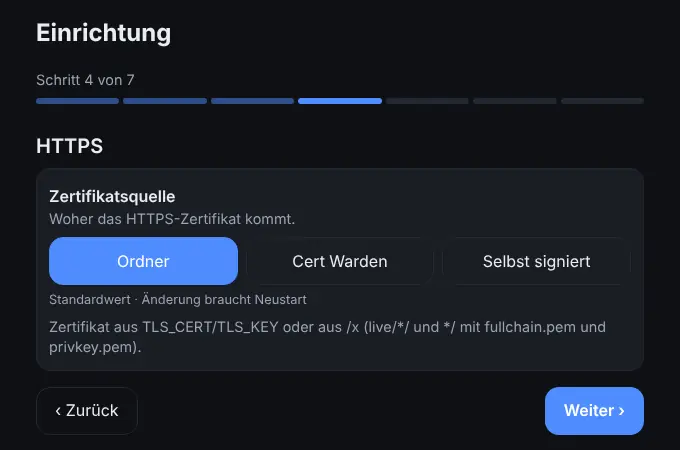
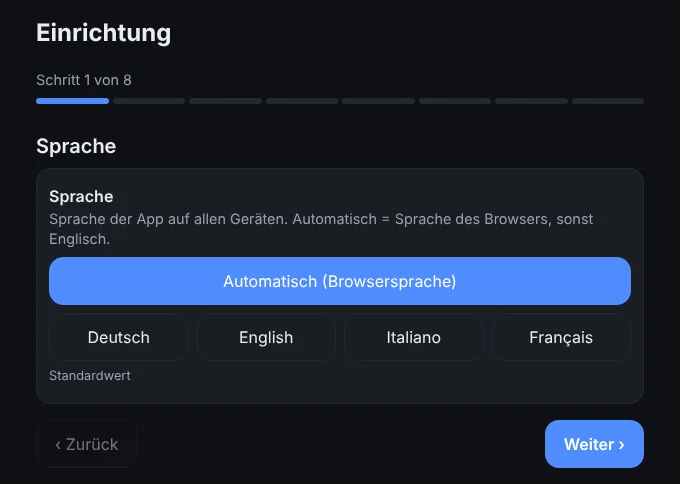
Website: wizard screenshots with language step, app languages in FAQ
Claude-Session: https://claude.ai/code/session_0166W9wT2m3nhVpi2gMNujQB

diff --git a/fr/index.html b/fr/index.html
@@ -153,7 +153,7 @@
           <figcaption>Vue agrandie d'un enfant</figcaption>
         </figure>
         <figure class="shot shot-wide">
-          <a class="zoom" href="../assets/img/shots/wizard-en.webp" aria-label="Agrandir l'image: Assistant de configuration au premier démarrage"><img src="../assets/img/shots/wizard-en.webp" width="680" height="450" alt="Assistant de configuration, étape 4 sur 7 : HTTPS avec les options Folder, Cert Warden et Self-signed." loading="lazy" decoding="async"></a>
+          <a class="zoom" href="../assets/img/shots/wizard-en.webp" aria-label="Agrandir l'image: Assistant de configuration au premier démarrage"><img src="../assets/img/shots/wizard-en.webp" width="680" height="484" alt="Assistant de configuration, étape 1 sur 8 : langue avec les options Automatique, Deutsch, English, Italiano et Français." loading="lazy" decoding="async"></a>
           <figcaption>Assistant de configuration au premier démarrage</figcaption>
         </figure>
         <figure class="shot shot-wide">
@@ -202,7 +202,7 @@
           <ol class="steps">
             <li>Reprendre compose.yaml et .env.example du dépôt ; définir au moins l'IP du conteneur (BABYPHONE_IP) et le dossier des certificats (CERTS_DIR).</li>
             <li>Démarrer le conteneur, p. ex. avec <code>docker compose up -d</code> ou comme nouvelle stack dans le Compose Manager d'Unraid.</li>
-            <li>Ouvrir <code>https://&lt;IP ou nom&gt;/</code> dans le navigateur. L'assistant demande les PIN, les prénoms des enfants, HTTPS, les alarmes et les webhooks.</li>
+            <li>Ouvrir <code>https://&lt;IP ou nom&gt;/</code> dans le navigateur. L'assistant demande la langue, les PIN, les prénoms des enfants, HTTPS, les alarmes et les webhooks.</li>
             <li>Sur l'appareil enfant, choisir le rôle enfant ; sur l'appareil parents, le rôle parents – chacun avec son PIN.</li>
           </ol>
           <h3 id="req-title">Prérequis</h3>
@@ -249,7 +249,7 @@ networks:
         <details><summary>Quelque chose est-il stocké ou enregistré ?</summary><p>Non. La vidéo et le son ne sont relayés qu'en direct. Seuls les réglages sont stockés, les PIN uniquement sous forme de hash.</p></details>
         <details><summary>À quoi faut-il faire attention sur l'appareil enfant ?</summary><p>Garder la page au premier plan, l'écran déverrouillé et l'appareil branché. Verrouiller ou changer d'app arrête caméra et micro (iOS, Android). Les écrans LCD restent rétroéclairés, seuls les OLED deviennent vraiment noirs.</p></details>
         <details><summary>Sur quels appareils a-t-il été testé ?</summary><p>L'app est conçue pour les navigateurs actuels (Chrome, Firefox, Safari, Edge). Les tests sur de vrais appareils iOS et Android sont encore à faire.</p></details>
-        <details><summary>Dans quelles langues l'app est-elle disponible ?</summary><p>L'interface de l'app existe en allemand et en anglais, selon la langue du navigateur.</p></details>
+        <details><summary>Dans quelles langues l'app est-elle disponible ?</summary><p>Allemand, anglais, italien et français. Réglable dans l'assistant de configuration ou dans les paramètres ; « Automatique » utilise la langue du navigateur, sinon l'anglais.</p></details>
         <details><summary>Combien ça coûte ?</summary><p>Rien. babyphone-cam est open source sous licence AGPL-3.0.</p></details>
       </div>
     </section>

diff --git a/de/index.html b/de/index.html
@@ -153,7 +153,7 @@
           <figcaption>Vergrösserte Ansicht eines Kindes</figcaption>
         </figure>
         <figure class="shot shot-wide">
-          <a class="zoom" href="../assets/img/shots/wizard-de.webp" aria-label="Bild vergrössern: Einrichtungsassistent beim ersten Start"><img src="../assets/img/shots/wizard-de.webp" width="680" height="450" alt="Einrichtungsassistent Schritt 4 von 7: HTTPS mit den Optionen Ordner, Cert Warden und Selbst signiert." loading="lazy" decoding="async"></a>
+          <a class="zoom" href="../assets/img/shots/wizard-de.webp" aria-label="Bild vergrössern: Einrichtungsassistent beim ersten Start"><img src="../assets/img/shots/wizard-de.webp" width="680" height="484" alt="Einrichtungsassistent Schritt 1 von 8: Sprache mit den Optionen Automatisch, Deutsch, English, Italiano und Français." loading="lazy" decoding="async"></a>
           <figcaption>Einrichtungsassistent beim ersten Start</figcaption>
         </figure>
         <figure class="shot shot-wide">
@@ -202,7 +202,7 @@
           <ol class="steps">
             <li>compose.yaml und .env.example aus dem Repository übernehmen, mindestens die IP des Containers (BABYPHONE_IP) und den Zertifikatsordner (CERTS_DIR) setzen.</li>
             <li>Container starten, z. B. mit <code>docker compose up -d</code> oder als neuen Stack im Unraid Compose Manager.</li>
-            <li>Im Browser <code>https://&lt;IP oder Name&gt;/</code> öffnen. Der Einrichtungsassistent fragt nach PINs, Kindernamen, HTTPS, Alarmen und Webhooks.</li>
+            <li>Im Browser <code>https://&lt;IP oder Name&gt;/</code> öffnen. Der Einrichtungsassistent fragt nach Sprache, PINs, Kindernamen, HTTPS, Alarmen und Webhooks.</li>
             <li>Am Kindgerät «Kind» wählen, am Elterngerät «Eltern» – jeweils mit dem passenden PIN.</li>
           </ol>
           <h3 id="req-title">Voraussetzungen</h3>
@@ -249,7 +249,7 @@ networks:
         <details><summary>Wird etwas gespeichert oder aufgezeichnet?</summary><p>Nein. Bild und Ton werden nur live weitergeleitet. Gespeichert werden Einstellungen, PINs nur als Hash.</p></details>
         <details><summary>Worauf muss ich beim Kindgerät achten?</summary><p>Die Seite im Vordergrund lassen, den Bildschirm nicht sperren und das Gerät ans Ladegerät hängen. Sperren oder App-Wechsel stoppt Kamera und Mikrofon (iOS, Android). LCD-Bildschirme bleiben beleuchtet, nur OLED wird wirklich dunkel.</p></details>
         <details><summary>Auf welchen Geräten wurde es getestet?</summary><p>Die App ist für aktuelle Browser (Chrome, Firefox, Safari, Edge) ausgelegt. Tests auf echten iOS- und Android-Geräten stehen noch aus.</p></details>
-        <details><summary>In welchen Sprachen gibt es die App?</summary><p>Die Oberfläche der App gibt es auf Deutsch und Englisch, je nach Browsersprache.</p></details>
+        <details><summary>In welchen Sprachen gibt es die App?</summary><p>Deutsch, Englisch, Italienisch und Französisch. Einstellbar im Einrichtungsassistenten oder unter Einstellungen; «Automatisch» nimmt die Browsersprache, sonst Englisch.</p></details>
         <details><summary>Was kostet es?</summary><p>Nichts. babyphone-cam ist Open Source unter der Lizenz AGPL-3.0.</p></details>
       </div>
     </section>

diff --git a/it/index.html b/it/index.html
@@ -153,7 +153,7 @@
           <figcaption>Vista ingrandita di un bambino</figcaption>
         </figure>
         <figure class="shot shot-wide">
-          <a class="zoom" href="../assets/img/shots/wizard-en.webp" aria-label="Ingrandisci immagine: Procedura guidata al primo avvio"><img src="../assets/img/shots/wizard-en.webp" width="680" height="450" alt="Procedura guidata passo 4 di 7: HTTPS con le opzioni Folder, Cert Warden e Self-signed." loading="lazy" decoding="async"></a>
+          <a class="zoom" href="../assets/img/shots/wizard-en.webp" aria-label="Ingrandisci immagine: Procedura guidata al primo avvio"><img src="../assets/img/shots/wizard-en.webp" width="680" height="484" alt="Procedura guidata passo 1 di 8: lingua con le opzioni Automatica, Deutsch, English, Italiano e Français." loading="lazy" decoding="async"></a>
           <figcaption>Procedura guidata al primo avvio</figcaption>
         </figure>
         <figure class="shot shot-wide">
@@ -202,7 +202,7 @@
           <ol class="steps">
             <li>Prendi compose.yaml e .env.example dal repository; imposta almeno l'IP del container (BABYPHONE_IP) e la cartella dei certificati (CERTS_DIR).</li>
             <li>Avvia il container, ad es. con <code>docker compose up -d</code> o come nuovo stack nel Compose Manager di Unraid.</li>
-            <li>Apri <code>https://&lt;IP o nome&gt;/</code> nel browser. La procedura guidata chiede PIN, nomi dei bambini, HTTPS, allarmi e webhook.</li>
+            <li>Apri <code>https://&lt;IP o nome&gt;/</code> nel browser. La procedura guidata chiede lingua, PIN, nomi dei bambini, HTTPS, allarmi e webhook.</li>
             <li>Sul dispositivo del bambino scegli il ruolo bambino, su quello dei genitori il ruolo genitori – ognuno con il proprio PIN.</li>
           </ol>
           <h3 id="req-title">Requisiti</h3>
@@ -249,7 +249,7 @@ networks:
         <details><summary>Viene salvato o registrato qualcosa?</summary><p>No. Video e audio vengono solo inoltrati in diretta. Vengono salvate le impostazioni, i PIN solo come hash.</p></details>
         <details><summary>A cosa fare attenzione sul dispositivo del bambino?</summary><p>Tenere la pagina in primo piano, lo schermo sbloccato e il dispositivo collegato alla corrente. Bloccare lo schermo o cambiare app ferma camera e microfono (iOS, Android). Gli schermi LCD restano retroilluminati, solo gli OLED diventano davvero neri.</p></details>
         <details><summary>Su quali dispositivi è stato testato?</summary><p>L'app è pensata per browser attuali (Chrome, Firefox, Safari, Edge). I test su veri dispositivi iOS e Android sono ancora in sospeso.</p></details>
-        <details><summary>In quali lingue è disponibile l'app?</summary><p>L'interfaccia dell'app è disponibile in tedesco e inglese, in base alla lingua del browser.</p></details>
+        <details><summary>In quali lingue è disponibile l'app?</summary><p>Tedesco, inglese, italiano e francese. Si imposta nella procedura guidata o nelle impostazioni; «Automatica» usa la lingua del browser, altrimenti l'inglese.</p></details>
         <details><summary>Quanto costa?</summary><p>Niente. babyphone-cam è open source con licenza AGPL-3.0.</p></details>
       </div>
     </section>

diff --git a/en/index.html b/en/index.html
@@ -153,7 +153,7 @@
           <figcaption>Enlarged view of one child</figcaption>
         </figure>
         <figure class="shot shot-wide">
-          <a class="zoom" href="../assets/img/shots/wizard-en.webp" aria-label="Enlarge image: Setup wizard on first start"><img src="../assets/img/shots/wizard-en.webp" width="680" height="450" alt="Setup wizard step 4 of 7: HTTPS with the options Folder, Cert Warden and Self-signed." loading="lazy" decoding="async"></a>
+          <a class="zoom" href="../assets/img/shots/wizard-en.webp" aria-label="Enlarge image: Setup wizard on first start"><img src="../assets/img/shots/wizard-en.webp" width="680" height="484" alt="Setup wizard step 1 of 8: Language with the options Automatic, Deutsch, English, Italiano and Français." loading="lazy" decoding="async"></a>
           <figcaption>Setup wizard on first start</figcaption>
         </figure>
         <figure class="shot shot-wide">
@@ -202,7 +202,7 @@
           <ol class="steps">
             <li>Take compose.yaml and .env.example from the repository; set at least the container IP (BABYPHONE_IP) and the certificate folder (CERTS_DIR).</li>
             <li>Start the container, e.g. with <code>docker compose up -d</code> or as a new stack in Unraid's Compose Manager.</li>
-            <li>Open <code>https://&lt;IP or name&gt;/</code> in a browser. The setup wizard asks for PINs, child names, HTTPS, alarms and webhooks.</li>
+            <li>Open <code>https://&lt;IP or name&gt;/</code> in a browser. The setup wizard asks for language, PINs, child names, HTTPS, alarms and webhooks.</li>
             <li>Pick “Child” on the child device and “Parents” on the parent device – each with its PIN.</li>
           </ol>
           <h3 id="req-title">Requirements</h3>
@@ -249,7 +249,7 @@ networks:
         <details><summary>Is anything stored or recorded?</summary><p>No. Video and sound are only forwarded live. Settings are stored, PINs only as hashes.</p></details>
         <details><summary>What should I watch out for on the child device?</summary><p>Keep the page in the foreground, the screen unlocked and the device on power. Locking or switching apps stops camera and microphone (iOS, Android). LCD screens keep their backlight; only OLED goes truly dark.</p></details>
         <details><summary>Which devices has it been tested on?</summary><p>The app is designed for current browsers (Chrome, Firefox, Safari, Edge). Tests on real iOS and Android devices are still pending.</p></details>
-        <details><summary>Which languages does the app support?</summary><p>The app interface is available in German and English, depending on the browser language.</p></details>
+        <details><summary>Which languages does the app support?</summary><p>German, English, Italian and French. Set it in the setup wizard or under Settings; “Automatic” uses the browser language, otherwise English.</p></details>
         <details><summary>What does it cost?</summary><p>Nothing. babyphone-cam is open source under the AGPL-3.0 licence.</p></details>
       </div>
     </section>
